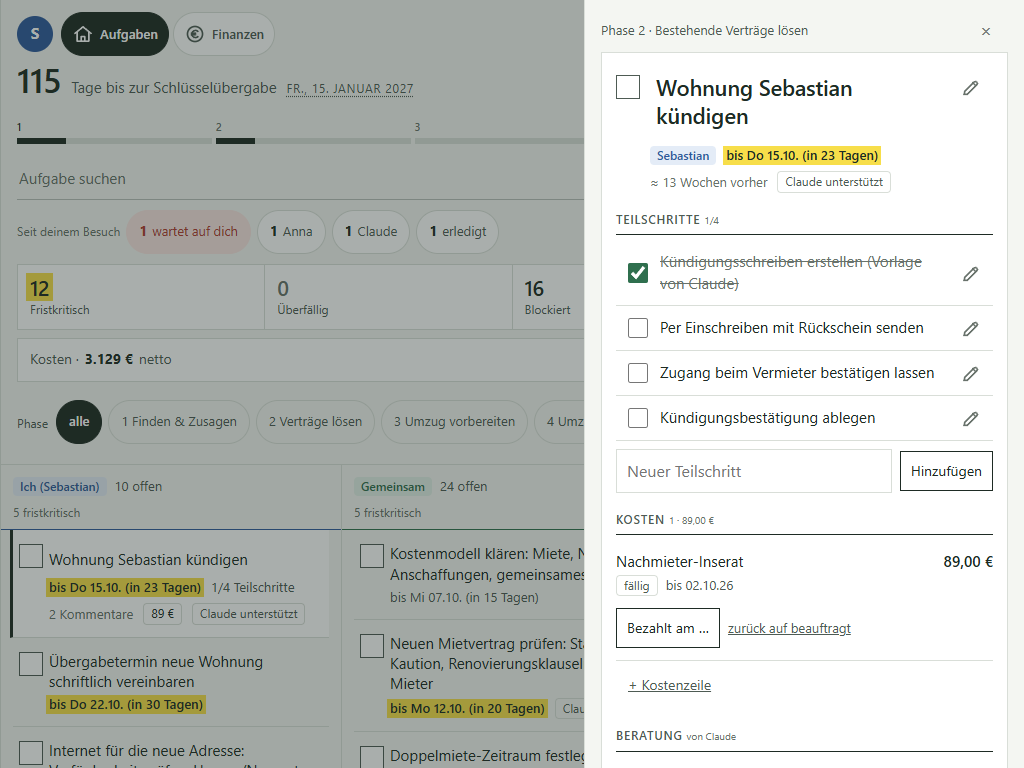
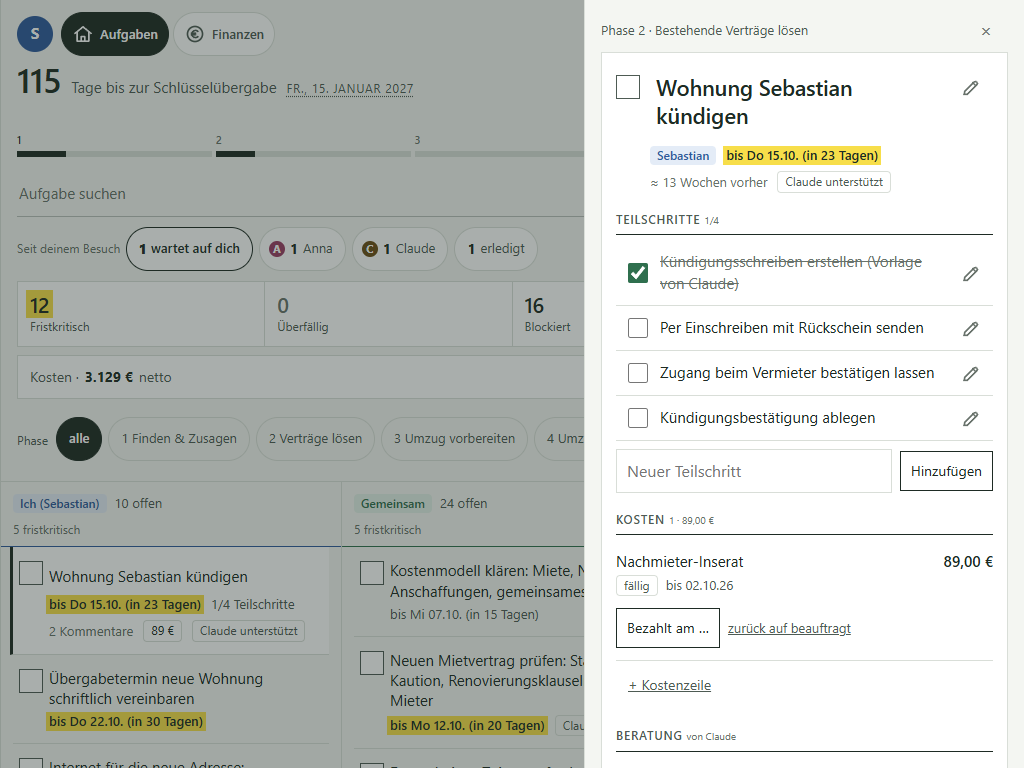
docs: 013b notes, the review against the audit and refreshed screenshots
013b set to "umgesetzt" with its criteria ticked, section 11 of the deviation
list rewritten (N1 came with A6, N2 and N3 are in), BRIEFING §5 on the visit
block and the loading state, and one more changelog sentence.

New: 013-review.md. It carries the four token checks, measured on the rendered
screens rather than read off the stylesheet - one font family, yellow only on
fristkritisch, red still on three things besides "überfällig", and --ink-3 at
4.59:1 on paper and 4.99:1 on card. Below that, every point of 013 and 013b
with its status and the screenshot that proves it.

The numbering #1-#21 of the audit is not in the repo, so the review says so
instead of inventing it; what is in the repo is the issue list of 011, which is
something else.

diff --git a/docs/changes/013-review.md b/docs/changes/013-review.md
@@ -1,0 +1,86 @@
+# 013 – Review gegen das UX-Audit vom 22.09.2026
+
+Stand: 22.09.2026 · Branch `feature/audit-fixes` · geprüft am Bild und am gerenderten Stand, kein Umbau.
+Belege: `docs/changes/013-screenshots/` · Messläufe: kopfloses Chrome bei 380 × 700, 1024 × 768, 1440 × 900, 1920 × 1080, ohne Login und ohne Datenbank.
+
+## Teil 1 – Vier Token-Checks am Bild
+
+Gemessen wurde am **gerenderten** Stand, nicht in der CSS-Datei: für jedes sichtbare Element auf fünf Bildschirmen (Handy-Liste, Handy mit offener Akte, Desktop mit Panel, Finanzansicht, Druckblatt) der berechnete Wert aus `getComputedStyle`. Kontraste nach WCAG-Formel im selben Lauf berechnet.
+
+### 1. Eine Schriftfamilie · **erfüllt**
+
+Über alle fünf Bildschirme hinweg gibt es genau **einen** Font-Stack:
+
+```
+"Instrument Sans", "Avenir Next", "Segoe UI", Roboto, "Helvetica Neue", Arial, sans-serif
+```
+
+Kein zweiter Stack, keine Ausnahme in Formularen, im Druckblatt oder in den Zahlen. (Die erste Familie wird nicht geladen – wir liefern keine externen Schriften aus, siehe `002-abweichungen.md`; auf dem Gerät greift der Systemteil des Stacks.)
+
+### 2. Gelb nur für Fristkritisch · **erfüllt**
+
+`--mark` (#f7de4a) erscheint an genau drei Stellen, alle fristkritisch:
+
+| Stelle | Beispiel |
+|---|---|
+| `.tile.critical .n span` | die Zahl auf der Kachel „Fristkritisch" |
+| `.due.crit` | „bis Do 15.10. (in 23 Tagen)" in Liste und Akte |
+| `.pcrit` (Druck) | das Wort „fristkritisch" auf dem Umzugstag-Blatt |
+
+`--mark-deep` kommt als Text **nirgends** vor – richtig so, es erreicht auf Gelb nur 3,42 : 1 (Messwert aus demselben Lauf) und ist in `CLAUDE.md` für Text gesperrt.
+
+### 3. Rot nur für Überfällig · **teilweise**
+
+`--danger` / `--danger-bg` erscheinen an vier Stellen. Zwei davon sind nicht „überfällig":
+
+| Stelle | Bedeutung | Beleg |
+|---|---|---|
+| `.due.late`, `.tile.late` | überfällig | (im Demo-Stand 0 überfällig, deshalb nicht im Scan) |
+| `.tag.wait-me` in der Aufgabenzeile | „wartet auf dich" | `a1-380-falz-nachher.png` |
+| `.own.wait` im Spaltenkopf | „Wartet auf mich" | `a1-380-falz-nachher.png` |
+| `.btn.danger` | „Aufgabe löschen" | `a4-akte-inline-380-nachher.png` |
+
+013b N2 hat das Rot aus dem **Besuchsblock** entfernt (Beleg `n2-chips-380.png`, `n2-zeilen-380.png`) – dort ist der Anspruch erfüllt. In der Liste selbst trägt „wartet auf dich" weiter Rot, und die Löschen-Knöpfe ebenfalls. N2 nennt ausdrücklich nur den Besuchsblock; alles andere zu entfärben wäre ein Umbau, und der ist hier ausgeschlossen. Als Punkt für einen eigenen Auftrag: entweder Rot überall auf „überfällig" beschränken (dann brauchen „wartet auf dich" und „löschen" eine andere Sprache), oder die Regel als „Rot = dringend oder unwiderruflich" formulieren.
+
+### 4. `--ink-3` gemessen · **erfüllt**
+
+`--ink-3` (#68726b) trägt Text nur auf zwei Flächen – gemessen, nicht angenommen:
+
+| Kombination | Kontrast | Grenze 4,5 : 1 |
+|---|---|---|
+| `--ink-3` auf `--paper` (#f4f6f2) | **4,59 : 1** | erfüllt |
+| `--ink-3` auf `--card` (#fff) | **4,99 : 1** | erfüllt |
+| *(`--ink-3` auf `--bg` #e9ebe6)* | *4,16 : 1* | *käme nicht hin – kommt im Stand aber nicht vor* |
+
+Zum Vergleich aus demselben Lauf: `--ink` auf Paper 13,54 : 1, `--ink-2` auf Paper 6,55 : 1, `--danger` auf Paper 5,42 : 1, `--danger` auf `--danger-bg` 4,79 : 1.
+
+Der Randfall ist bekannt und eingehalten: die Fläche außerhalb der Spalte (`--bg`) trägt keinen Text.
+
+## Teil 2 – Status je Punkt aus 013 und 013b
+
+Jede Zeile mit dem Screenshot, der sie belegt.
+
+| Punkt | Status | Beleg | Anmerkung |
+|---|---|---|---|
+| **A1** Kopf am Handy kürzer, erste Aufgabe über der Falz | behoben | `a1-380-falz-vorher.png` → `a1-380-falz-nachher.png` | erste Zeile endet bei 669 px (vorher außerhalb des ersten Bildschirms) |
+| **A1** Kacheln ohne leere Zelle | behoben | `a1-kacheln-a-380.png`, `a1-kacheln-b-gewaehlt-380.png` | Variante B gewählt, Begründung in `013-abweichungen.md` §1 |
+| **A2** Layout wächst mit | behoben | `a2-1920x1080-nachher.png` | 1920: Spalten 3 × 407 px, Panel 576 px, 3 % Rand |
+| **A3** kein leeres Panel zwischen 900 und 1179 px | behoben | `a3-1024x768-overlay-zu.png`, `-offen.png` | Akte als Overlay, schließt per ×, Escape, Tippen daneben |
+| **A4** Akte ohne Doppelung | behoben | `a4-akte-inline-380-nachher.png` | Häkchen und Titel einmal, Titel über den Stift |
+| **A5** Kleinigkeiten (Kachel-Unterzeile, Bereichstitel, leere Zustände, relative Frist, Kostenhinweis, Gate-Segment) | behoben | `a1-380-falz-nachher.png`, `a4-akte-inline-380-nachher.png` | zwei Texte anders formuliert als vorgeschlagen, `013-abweichungen.md` §7 |
+| **A6 / N1** Kopfzeile, Navigation, Fußzeile | behoben | `a1-380-falz-nachher.png`, `a2-1920x1080-nachher.png` | Zwei-Icon-Fassung, damit auch 013b N1 |
+| **B1** Druckblatt | behoben | `b1-umzugstag-druck.pdf`, `b1-umzugstag-druck-vorschau.png` | Teilschritt-Kästchen 5 mm statt 7 mm, `013-abweichungen.md` §9 |
+| **B2** Teilschritt-Löschen | behoben | `b2-subtask-edit-380.png` | nur im Bearbeitungsmodus, mit Rückfrage |
+| **B3** Zurück aus `#finanzen` | behoben | `b3-finanzen-380.png` | History-Eintrag beim Öffnen |
+| **B4** Autorenpunkte mit Initial | behoben | `b4-ndot-380.png` | S/A/C im Punkt |
+| **B5** eigene Kommentare | behoben | `b5-comments-380.png` | löschen immer, ändern zehn Minuten lang |
+| **N2** Besuchsblock ohne Rot | behoben | `n2-chips-380.png`, `n2-zeilen-380.png` | fett + Umriss + Autoren-Punkt statt roter Fläche |
+| **N3** Lade-Animation | behoben | `n3-laden-380.png`, `n3-laden-reduced-380.png` | Gate-Leiste 1,2 s, bei reduzierter Bewegung drei Punkte |
+| **Tap-Ziele** Suchfeld und Gate-Segmente | behoben | `a1-380-falz-nachher.png` | beide 44 px, sichtbar unverändert leicht |
+| **Rot nur für Überfällig** (Token-Check 3) | teilweise | siehe oben | im Besuchsblock erfüllt, in Liste und Löschen-Knöpfen nicht – kein Umbau in 013 |
+
+## Teil 3 – Die Nummerierung #1–#21 fehlt hier
+
+Der Auftrag verlangt „jedes Audit-Finding #1–#21 mit Status". **Diese nummerierte Liste liegt nicht im Repo.** Im Repo steht nur `design/snapshot/2026-09-22/issues.md` – das sind die sechs bekannten Schwächen aus dem Design-Review 011, nicht das Audit vom 22.09. Das Audit selbst ist im Chat aus den Aufnahmen in `docs/audit/2026-09-22/` entstanden; die Nummern sind dort vergeben worden.
+
+Ich trage keine Nummern ein, die ich mir zusammenreime. Sobald die Liste hier liegt – etwa als `docs/audit/2026-09-22/findings.md` oder in den Chat gestellt – ordne ich jedem Punkt #1 bis #21 den Status, den Beleg und bei „teilweise"/„offen" den Satz zu. Die Statusarbeit darüber ist gemacht: Teil 2 enthält für jeden in 013/013b behandelten Punkt Zustand und Beleg, Teil 1 die vier Token-Checks mit Messwerten.

diff --git a/BRIEFING.md b/BRIEFING.md
@@ -83,7 +83,7 @@ Ablauf technisch: Claude im Chat liest über den Supabase-Connector die Aufgaben
 Ein Dashboard-Screen, geordnet **nach Personen** statt nach Phasen (`docs/changes/009-personen-layout.md`, Variante B aus dem Design-Review 011):
 
 1. **Kopf** (kompakt seit 013) – eine Zeile mit Avatar-Kürzel, zwei Navigations-Icons (Haus = Aufgaben, Münze = Finanzen; aktiv gefüllt, Inline-SVG) und der Statuszeile; darunter der Countdown in einer Zeile („115 Tage bis zur Schlüsselübergabe · 15.01.2027", Zahl 28 px, das Datum öffnet das Datumsfeld) und die fünfteilige **Gate-Leiste** auf halber Höhe: Nummer und Füllbalken, der Zähler steckt im Tooltip.
-2. **„Seit deinem letzten Besuch"** – erscheint nur, wenn etwas passiert ist, während die Person weg war: Kommentare je Autor, von jemand anderem erledigte Aufgaben, was auf die Person wartet. Jeder Teil ist ein Filter. Grundlage: `allowlist.last_visit_at`, gesetzt beim Verlassen der App. An der Aufgabenzeile steht ein Punkt in der Autorenfarbe, bis die Aufgabe geöffnet wurde (`allowlist.seen_comments`).
+2. **„Seit deinem letzten Besuch"** (seit 013 eine Zeile mit Chips, die sich beim Antippen zu vier Zeilen aufklappt; ohne Rot – was wartet, ist fett und umrissen, Kommentare tragen den Autoren-Punkt mit Initial) – erscheint nur, wenn etwas passiert ist, während die Person weg war: Kommentare je Autor, von jemand anderem erledigte Aufgaben, was auf die Person wartet. Jeder Teil ist ein Filter. Grundlage: `allowlist.last_visit_at`, gesetzt beim Verlassen der App. An der Aufgabenzeile steht ein Punkt in der Autorenfarbe, bis die Aufgabe geöffnet wurde (`allowlist.seen_comments`).
 3. **Vier Kennzahlen als Filter** – Fristkritisch, Überfällig, Blockiert, Bei Claude, in einer Reihe. Jede Kachel ist ein Button (`aria-pressed`), genau ein Filter aktiv, erneutes Tippen hebt ihn auf; Warnfarbe nur bei Fristkritisch (Gelb) und Überfällig (Rot). Darunter eine eigene Zeile „Kosten · 3.129 € netto →", die in die Finanzansicht führt – sie ist ein Link, kein Filter, und sieht seit 013 auch so aus.
 4. **Phasen als Chips** – `alle` plus fünf Phasen über der Liste, nicht mehr als Tabs; die Wahl wird pro Gerät gemerkt, Standard ist `alle`. Darunter der Gate-Text der gewählten Phase.
 5. **Spalten statt einer Liste** – Handy: `Ich` (nur eigene, nicht blockiert), `Wartet auf mich`, `Gemeinsam`, `Bei <anderer>` (eingeklappt). Ab 1180 px drei Spalten nebeneinander: ich / gemeinsam / der andere, daneben das Akte-Panel. Jede Spalte zeigt acht Zeilen, dann „weitere n zeigen", darunter eingeklappt „n warten auf einen Vorgänger" (blockierte Aufgaben mit dem Grund als Link zur blockierenden Aufgabe) und „n erledigt zeigen". Der Filter „Bei Claude" gruppiert stattdessen nach den drei Delegationszuständen.
@@ -103,6 +103,8 @@ Breiten (Stand 013): bis 599 px Handy (Akte inline unter der Aufgabe, die Aufgab
 **Kosten und Finanzen** (007): Jede Aufgabe kann Kostenzeilen tragen (Abschnitt „Kosten" in der Akte, eine Zeile je Betrag, Status `geschaetzt` → `angebot` → `beauftragt` → `faellig` → `bezahlt`, ein Schritt vor und einer zurück). Die Aufgabenzeile zeigt den gezählten Betrag als kleines Schild, „≈" solange alles geschätzt ist. Gezählt wird nach der Regel der View `costs_summary`; sie steht im Frontend genau einmal in `app/costs.js`. Eigene Ansicht **Finanzen** unter `#finanzen` (Fußzeile, am Desktop auch im Kopf, dazu die Kachel „Kosten"): oben die fünf Summen plus Saldo („wer schuldet wem"), Fälligkeiten, Puffer, Cashflow je Monat mit berechneter Doppelmiete und die laufenden Kosten alt/neu; darunter alle Aufgaben mit Kostenzeilen nach Phase, dort direkt bearbeitbar – dieselbe Komponente wie in der Akte. Die Auszugstermine, der Standardanteil und der Puffersatz liegen in einem aufklappbaren Einstellungsbereich derselben Ansicht.
 
 **Umzugstag** (009): Nach jedem erfolgreichen Laden legt die App den Datenstand lokal ab (`localStorage`). Ohne Verbindung zeigt sie diesen Stand **nur lesend** – Statuszeile „Offline – Stand von 09:41", Häkchen deaktiviert, Schreibversuche melden „Ohne Netz kannst du nur lesen". Kein Offline-Schreiben, kein Sync. Zurück im Netz lädt sie neu, ohne Seiten-Reload. „Umzugstag drucken" (Fußzeile) öffnet ein Blatt für Phase 4: Aufgaben nach Person mit Kästchen, Felder für Zählerstände (Strom/Gas/Wasser je Wohnung), Schlüsselliste und die Notfallkontakte aus `settings.umzugstag_kontakte` – reines `@media print`.
+
+**Ladezustand** (013b): „Lade …" mit der leeren Gate-Leiste darunter, die sich in 1,2 s füllt und wieder leert, in Schleife – kein Spinner. Bei `prefers-reduced-motion` drei stehende Punkte.
 
 Anforderungen an die Umsetzung: mobile-first (~380 px), Tap-Ziele ≥ 44 px, sichtbarer Fokus, `prefers-reduced-motion` respektieren, keine Dialoge (`confirm`/`prompt`) sondern Inline-Bestätigungen, Statuszeile mit Speicherzustand und Login-Identität. Autor von Kommentaren = eingeloggte Person (aus E-Mail → S/A gemappt, Mapping in `allowlist` als Spalte `person`).
 

diff --git a/docs/changes/013-abweichungen.md b/docs/changes/013-abweichungen.md
@@ -35,7 +35,7 @@ Die 40 px sind **kleiner als die sonst geltenden 44 px** Tap-Ziel – so steht e
 
 Der Auftrag sagt „Warnfarbe nur beim letzten". Bei 380 px scrollt die Chip-Zeile seitlich, und der letzte Chip liegt außerhalb des Bildschirms – ausgerechnet der, der die Person betrifft. Er steht deshalb **vorn** und ist als einziger farbig. Die Farbregel bleibt, die Reihenfolge nicht.
 
-*(Nachtrag 013b N2 will diesen Chip ohne Rot. Noch nicht umgesetzt – siehe Abschnitt 11.)*
+*(Seit 013b N2 ist der Chip nicht mehr rot, sondern fett mit Umriss – siehe Abschnitt 11.)*
 
 ## 5. A2/A3 – die Spaltenzahl richtet sich nach dem Platz, nicht nach einer Stufe
 
@@ -77,13 +77,13 @@ Der Auftrag nennt eine Größe. Ein 7-mm-Kästchen je Teilschritt macht das Blat
 
 Die RLS erlaubt beiden Personen `update` und `delete` auf `comments` (Stand `schema.sql`, seit 002). Die Beschränkung auf eigene Kommentare steckt in der Oberfläche, nicht in der Datenbank. Keine Migration – der Auftrag verlangt keine, und eine engere Policy wäre eine Schema-Änderung, die Sebastian einspielen müsste. Wenn das gewünscht ist: eigener Auftrag.
 
-## 11. Stand von 013b (Nachtrag, kam während der Umsetzung dazu)
+## 11. 013b (Nachtrag, kam während der Umsetzung dazu) – umgesetzt
 
-- **N1** (Kopfzeile, zwei Icons, Version als Text, Fußzeile): durch A6 **erledigt**, Fassung wie oben.
-- **N2** (Besuchsblock ohne Rot): **offen** – der Chip „wartet auf dich" ist derzeit rot hinterlegt.
-- **N3** (Lade-Animation in der Gate-Leiste): **offen**.
+- **N1** (Kopfzeile, zwei Icons, Version als Text, Fußzeile): war mit A6 schon gebaut, Zwei-Icon-Fassung, unverändert übernommen.
+- **N2** (Besuchsblock ohne Rot): umgesetzt. Der Chip „wartet auf dich" ist jetzt fett mit Umriss in Textfarbe, die aufgeklappte Zeile trägt einen Balken links statt einer roten Fläche. Die Kommentar-Chips tragen den Autoren-Punkt mit Initial.
+- **N3** (Lade-Animation): umgesetzt. „Lade …" bleibt, darunter füllt sich die Gate-Leiste in 1,2 s von links nach rechts und leert sich wieder; bei „Bewegung reduzieren" stehen stattdessen drei Punkte.
 
-013b sagt selbst, seine Punkte kommen „als eigene Commits nach dem 013-Stopp" – deshalb stehen N2 und N3 hier nur als Stand, nicht als Versäumnis.
+**Was N2 nicht anfasst:** Die Aufgabenzeile trägt weiterhin ein rotes „wartet auf dich", die Spalte „Wartet auf mich" eine rote Trennlinie und die Akte ein rotes Band (alles aus 009). N2 nennt ausdrücklich nur den Besuchsblock. Wenn Rot überall allein der Überfälligkeit gehören soll, ist das ein eigener Auftrag – im Moment ist die Regel im Besuchsblock strenger als im Rest der Liste.
 
 ## 12. Was geprüft wurde
 

diff --git a/docs/changes/013b-nachtrag.md b/docs/changes/013b-nachtrag.md
@@ -1,6 +1,7 @@
 # Änderungsauftrag 013b – Nachtrag zu 013
 
-Stand: 22.09.2026 · Status: offen · Branch: `feature/audit-fixes` (derselbe wie 013), als eigene Commits nach dem 013-Stopp
+Stand: 22.09.2026 · Status: umgesetzt (22.09.2026, in `preview` zum Prüfen am Handy) · Branch: `feature/audit-fixes` (derselbe wie 013), als eigene Commits nach dem 013-Stopp
+Abweichungen: `docs/changes/013-abweichungen.md`, Abschnitt 11 · Screenshots: `docs/changes/013-screenshots/n2-*.png`, `n3-*.png`
 Grund: 013 lief bereits, als diese Punkte dazukamen. Wo ein Punkt schon in der laufenden Fassung von 013 steht, gilt er als erledigt – in der Abweichungsliste vermerken, welche Fassung gebaut wurde.
 
 ## Nachträge
@@ -18,9 +19,13 @@ Grund: 013 lief bereits, als diese Punkte dazukamen. Wo ein Punkt schon in der l
 
 ## Akzeptanzkriterien (zusätzlich zu 013)
 
-- [ ] Avatar zeigt nur das Kürzel; Name per Tooltip und im Bereichstitel
-- [ ] Zwei Icons, aktiver Zustand sichtbar; Haus setzt Filter und Phase zurück
-- [ ] Version als Text, ⓘ öffnet Changelog und trägt den Neu-Punkt; kein Dauerknopf "Neu laden"; Fußzeile ohne "Finanzen"
-- [ ] Besuchsblock ohne rotes Feld
-- [ ] Ladezustand mit Gate-Leisten-Animation, statisch bei reduzierter Bewegung
-- [ ] Changelog-Eintrag von 013 um einen Satz ergänzt: "Oben rechts findest du jetzt Aufgaben und Finanzen als Symbole."
+- [x] Avatar zeigt nur das Kürzel; Name per Tooltip und im Bereichstitel (mit A6 gebaut)
+- [x] Zwei Icons, aktiver Zustand sichtbar; Haus setzt Filter und Phase zurück (mit A6 gebaut)
+- [x] Version als Text, ⓘ öffnet Changelog und trägt den Neu-Punkt; kein Dauerknopf "Neu laden"; Fußzeile ohne "Finanzen" (mit A6 gebaut)
+- [x] Besuchsblock ohne rotes Feld – fett, Umriss in Textfarbe, Autoren-Punkt mit Initial
+- [x] Ladezustand mit Gate-Leisten-Animation (1,2 s, Schleife), bei reduzierter Bewegung drei stehende Punkte
+- [x] Changelog-Eintrag von 013 um den Satz ergänzt: "Oben rechts findest du jetzt Aufgaben und Finanzen als Symbole."
+
+## Umsetzung
+
+N1 war mit A6 bereits gebaut (Zwei-Icon-Fassung) und blieb unverändert. N2 und N3 kamen als eigene Commits nach dem 013-Stopp: `f6237e3` (Besuchsblock ohne Rot) und `66a776a` (Ladezustand). Geprüft im kopflosen Chrome bei 380 px, **10 von 10** Prüfungen grün, ohne Login und ohne Datenbank – unter anderem gegen die Farbwerte `--danger` und `--danger-bg`, die im Besuchsblock nirgends mehr vorkommen, und mit emulierter Einstellung „Bewegung reduzieren".
